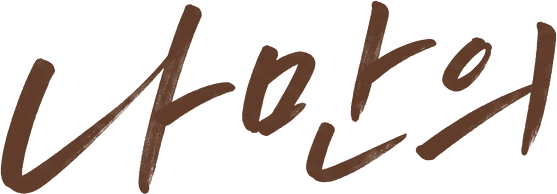
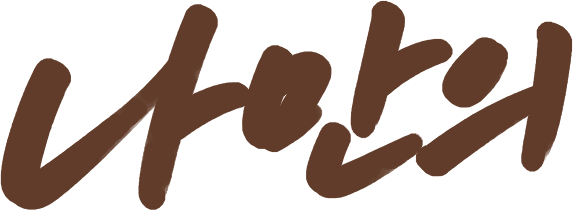
고르기 띠 다듬기: 굵은 손글씨, 스티커를 제목 둘레·찢긴 테두리에 흩어 붙임
- 손글씨 제목 획을 8px 넓혀 굵게 다시 구움
- 스티커 다섯 장을 줄 세우지 않고 제목 둘레 세 장, 띠 위·아래 찢긴 테두리 두 장으로 배치
- 스티커 크기를 줄이고 색을 원색과 바랜 톤 사이로 조정
- CLAUDE.md 스티커 규칙 갱신

Changed region(s): [[0.0, 0.0, 1.0, 1.0], [0.5494, 0.8969, 0.6104, 0.9588], [0.0, 0.8969, 0.0305, 0.9897]]

diff --git a/app/page.tsx b/app/page.tsx
@@ -126,19 +126,24 @@ const OCCASION_PLACEMENT = [
 ];
 
 /*
-  '나만의 캔들 고르기' 제목 아래 풀로 붙인 종이 스티커 줄(동그라미·둘레 글씨 동그라미·둥근 네모·가로 네모).
-  문구는 사이트 다른 곳에 이미 적힌 사실만 영문으로 옮겨 씁니다
-  (손으로 빚은 캔들, 소이 왁스, 안전기준확인 마크, 카카오 상담의 선물 포장 안내, 저녁 7시).
-  입장권은 뺐지만 '7 PM'은 브랜드가 정한 "저녁 7시 불 켜는 시간"이라 스티커로 남겨 둡니다.
-  색은 오래된 인쇄물처럼 채도를 살짝 눌렀고, 기울기·높이·크기·구김(crease)은 하나씩 따로 줘
-  같은 틀로 찍은 듯 보이지 않게 합니다.
+  '나만의 캔들 고르기' 띠에 풀로 붙인 종이 스티커 다섯 장.
+  한 줄로 늘어놓으면 견본표처럼 보여서, 세 장(spot: "title")은 손글씨 둘레의 빈자리(왼쪽 위, '나만의' 오른쪽,
+  '고르기' 꼬리 아래)에, 두 장은 크라프트지의 찢긴 위·아래 테두리(spot: "top" | "bottom")에 반쯤 걸쳐 붙입니다.
+  크기·각도·높이를 다 다르게 줘 줄로 읽히지 않게 합니다.
+  - 제목 둘레: 자리·크기가 제목 상자 기준 %·cqi라 모바일에서도 같은 자리에 붙고, 손글씨 획은 가리지 않습니다.
+  - 테두리: 띠는 찢긴 모양 마스크로 잘려 있어 안에 두면 스티커도 잘리므로, 띠 바깥 겹층에 붙이고 크기는 px로 둡니다.
+  색은 원색이 앨범 위에서 혼자 튀고 많이 누르면 흐려 보여서, 같은 색 계열에서 채도를 조금만 눌러 둡니다.
+  문구는 사이트에 이미 적힌 사실만 영문으로 씁니다
+  (손으로 빚은 캔들, 소이 왁스, 안전기준확인 마크, 카카오 상담의 선물 포장 안내, 저녁 7시 불 켜는 시간).
 */
 const STICKERS = [
-  { shape: "circle", color: "#f7b51e", crease: 0, text: "Handmade", motion: "lift", place: "-rotate-[6deg] w-[104px] md:w-[148px]" },
-  { shape: "square", color: "#7ea8ec", crease: 2, text: "Soy\nWax", motion: "peel", place: "rotate-[3deg] w-[84px] md:w-[116px] md:translate-y-3" },
-  { shape: "ring", color: "#f26b2a", crease: 4, text: "Safety\nChecked", motion: "spin", place: "-rotate-[2deg] w-[100px] md:w-[136px] -translate-y-1" },
-  { shape: "wide", color: "#f68ea0", crease: 1, text: "Gift Wrap on Request", motion: "press", place: "rotate-[4deg] md:translate-y-2" },
-  { shape: "circle", color: "#9fd06a", crease: 3, text: "7 PM", motion: "swing", place: "-rotate-[4deg] w-[86px] md:w-[112px]" },
+  { spot: "title", shape: "circle", color: "#e8b44a", crease: 0, text: "Handmade", motion: "lift", place: "-left-[2%] md:-left-[8%] -top-[4%] md:-top-[12%] w-[21%] md:w-[18%] -rotate-[9deg]", size: "text-[3.3cqi] md:text-[2.8cqi]" },
+  { spot: "title", shape: "circle", color: "#a4c87b", crease: 3, text: "7 PM", motion: "swing", place: "right-[2%] md:right-[5%] -top-[1%] md:-top-[4%] w-[15%] md:w-[13%] rotate-[7deg]", size: "text-[3.2cqi] md:text-[2.7cqi]" },
+  { spot: "title", shape: "ring", color: "#e07240", crease: 4, text: "Safety\nChecked", motion: "spin", place: "left-[62%] md:left-[60%] top-[92%] md:top-[90%] w-[22%] md:w-[19%] -rotate-[3deg]", size: "text-[2.9cqi] md:text-[2.6cqi]" },
+  // 위 테두리 오른편: 앨범 종이와 크라프트지 사이에 반쯤 걸쳐 붙입니다.
+  { spot: "top", shape: "square", color: "#88a8da", crease: 2, text: "Soy\nWax", motion: "peel", place: "right-[34%] md:right-[17%] -top-[22px] md:-top-[26px] w-[54px] md:w-[68px] rotate-[8deg]", size: "text-[12px] md:text-[15px]" },
+  // 아래 테두리 왼편: 찢긴 아래 가장자리에 걸쳐 다음 구간 쪽으로 반쯤 내려옵니다.
+  { spot: "bottom", shape: "wide", color: "#e696a3", crease: 1, text: "Gift Wrap on Request", motion: "press", place: "left-[5%] md:left-[13%] -bottom-[18px] md:-bottom-[20px] -rotate-[5deg]", size: "text-[12px] md:text-[15px]" },
 ] as const;
 
 function Arrow() {
@@ -154,6 +159,8 @@ export default function Home() {
 
         {/* ── 고르는 방법 세 가지 ─────────────────────────────────── */}
         <section>
+          {/* 띠와 테두리 스티커를 한 상자에 묶어, 스티커 자리를 띠의 위·아래 끝 기준으로 잡습니다. */}
+          <div className="relative">
           {/* 크라프트지 띠를 위아래로 찢어 앨범에 붙인 것처럼 보이게 합니다. */}
           <div className="torn-band" style={{ backgroundColor: "var(--color-beige)" }}>
             <div className="max-w-6xl mx-auto px-5 pt-16 pb-14 md:pt-24 md:pb-24 text-center">
@@ -168,41 +175,55 @@ export default function Home() {
                 직접 쓴 캘리그래피라 폰트 대신 이미지로 넣습니다(배경은 투명).
                 한 장으로 쓰면 짧은 첫 줄 '나만의'가 왼쪽에 붙어 오른쪽이 비어 보여서, 줄마다 잘라 둔 그림을
                 각각 가운데에 맞춰 쌓습니다. 폭(%)은 원본(1096px)에서 각 줄이 차지하던 너비라 두 줄 글씨 크기가 같게 유지됩니다.
+                붓 획이 가늘어 띠 위에서 약해 보여서, 두 그림 모두 획을 바깥으로 8px씩 넓혀 굵게 구웠습니다(그만큼 그림도 16px씩 커짐).
                 h2의 이름은 aria-label로 한 번에 읽히게 하고, 그림 두 장은 장식으로 숨깁니다.
               */}
-              <h2 aria-label="나만의 캔들 고르기" className="w-full max-w-[540px] mx-auto flex flex-col items-center">
+              {/* 제목과 스티커를 한 상자에 묶어 스티커 자리를 제목 기준으로 잡습니다(@container: 스티커 글씨도 이 폭을 따라 커짐). */}
+              <div className="@container relative w-full max-w-[540px] mx-auto mt-6 md:mt-10 mb-16 md:mb-20">
+              <h2 aria-label="나만의 캔들 고르기" className="w-full flex flex-col items-center">
                 <Image
                   src="/brand/choose-headline-1.png"
                   alt=""
-                  width={557}
-                  height={194}
-                  className="ink-art w-[50.8%] h-auto"
+                  width={573}
+                  height={210}
+                  className="ink-art w-[52.3%] h-auto"
                   sizes="(max-width: 767px) 46vw, 275px"
                 />
                 <Image
                   src="/brand/choose-headline-2.png"
                   alt=""
-                  width={960}
-                  height={273}
-                  className="ink-art w-[87.6%] h-auto mt-[1.5%]"
+                  width={976}
+                  height={289}
+                  className="ink-art w-[89%] h-auto"
                   sizes="(max-width: 767px) 79vw, 473px"
                 />
               </h2>
-              {/* 제목 아래 크라프트지 띠 위에 붙인 종이 스티커 줄 */}
-              <ul
-                aria-label="이브닝 캔들의 약속"
-                className="mt-10 md:mt-14 flex flex-wrap items-center justify-center gap-x-3 gap-y-4 md:gap-x-8"
-              >
-                {STICKERS.map(({ shape, color, crease, motion, text, place }) => (
-                  <li key={text}>
-                    {/* 참고한 붙임 스티커처럼 글자를 크고 굵게(소품 글씨라 다섯 단계 글자 크기의 예외). */}
-                    <Sticker shape={shape} color={color} crease={crease} motion={motion} className={`${place} text-[16px] md:text-[21px] whitespace-pre-line`}>
+              <ul aria-label="이브닝 캔들의 약속">
+                {STICKERS.filter((sticker) => sticker.spot === "title").map(({ shape, color, crease, motion, text, place, size }) => (
+                  <li key={text} className={`absolute ${place}`}>
+                    {/* 붙임 스티커처럼 글자를 크고 굵게(소품 글씨라 다섯 단계 글자 크기의 예외). */}
+                    <Sticker shape={shape} color={color} crease={crease} motion={motion} className={`w-full ${size} whitespace-pre-line`}>
                       {text}
                     </Sticker>
                   </li>
                 ))}
               </ul>
+              </div>
             </div>
+          </div>
+          {/*
+            찢긴 테두리에 걸친 스티커. 띠 마스크 밖이라 잘리지 않고, 가운데 폭(max-w-6xl) 안에서 자리를 잡습니다.
+            바로 아래 구간 글자보다 위에 보이도록 z-10만 줍니다(아래 구간 제목과는 겹치지 않는 높이).
+          */}
+          <ul aria-label="이브닝 캔들의 약속(테두리)" className="absolute inset-0 max-w-6xl mx-auto z-10 pointer-events-none">
+            {STICKERS.filter((sticker) => sticker.spot !== "title").map(({ shape, color, crease, motion, text, place, size }) => (
+              <li key={text} className={`absolute pointer-events-auto ${place}`}>
+                <Sticker shape={shape} color={color} crease={crease} motion={motion} className={`w-full ${size} whitespace-pre-line`}>
+                  {text}
+                </Sticker>
+              </li>
+            ))}
+          </ul>
           </div>
 
           {/*

diff --git a/CLAUDE.md b/CLAUDE.md
@@ -43,7 +43,7 @@
 | 분위기 사진 | 오래 들고 다닌 인화 사진: 그을린 테두리, 떨어져 나간 모서리, 닳은 자국 | `.worn-print` + `.worn-print-photo` (그림자는 부모에 `drop-shadow`) |
 | 메모 | 줄 노트, 클립 | `.ruled-paper`, `PaperClip` |
 | 약속·특징 | 풀로 붙인 종이 스티커(동그라미·둘레 글씨 동그라미·둥근 네모·가로 네모): 칼선 여백 없이 색 종이 + 그라데이션 구김 + 가는 선·둘레 글씨 장식 | `Sticker` 컴포넌트(`crease` 번호로 구김을 스티커마다 다르게) |
-| 기타(히어로·제목 전용) | 입장권, 레코드, 타원 액자 | `TicketStub`, `RecordAlbum`, `OvalPhoto` |
+| 기타(히어로 전용) | 레코드, 타원 액자 | `RecordAlbum`, `OvalPhoto` |
 | 푸터 | 위쪽을 찢은 앨범 뒷표지 | `.torn-top` |
 
 ### 지금 섹션별 주인공
@@ -51,7 +51,7 @@
 | 섹션 | 주인공 소품 |
 |---|---|
 | 히어로 | 콜라주 (예외: 여러 소품을 모으는 자리) |
-| 나만의 캔들 고르기 제목 | 입장권 + 바로 아래 붙임 스티커 줄 (스티커는 이 자리에만 씁니다) |
+| 나만의 캔들 고르기 제목 | 손글씨 제목(획을 넓혀 굵게 구운 두 줄 그림) 둘레에 흩어 붙인 스티커 다섯 장 (스티커는 이 자리에만, 줄 세우지 않고 크기·각도·높이를 다르게, 손글씨 획은 가리지 않게) |
 | 나만의 캔들 고르기 목록 | 즉석 사진. 제목 띠 바로 아래에 색을 골라 보는 `ColorTryOn`(사이트에서 방문자가 직접 해 보는 단 하나, 찢은 흰 종이 무대 위 three.js 3D 유리컵 캔들 `CandleJar3D`, 화면에 다가올 때만 불러옴)을 먼저 둡니다 |
 | 이런 날에 | 즉석 사진 묶음 |
 | 브랜드 이야기 | 낡은 인화 사진(`.worn-print`) |
@@ -59,7 +59,7 @@
 
 - 스티커 문구는 사이트에 이미 적힌 사실만 영문으로 씁니다(Handmade, Soy Wax, Safety Checked, Gift Wrap on Request, 7 PM). 없는 혜택·수치를 지어내지 않습니다
 - 스티커 글씨는 Playfair Display 900, 검정(`#000`). 둘레 글씨만 타자기체
-- 스티커 색은 또렷한 원색에 가까운 분홍 `#f68ea0`·주황 `#f26b2a`·노랑 `#f7b51e`·연두 `#9fd06a`·파랑 `#7ea8ec`(앨범 위에서 눈에 띄는 포인트)
+- 스티커 색은 원색에서 채도를 조금만 누른 톤: 분홍 `#e696a3`·주황 `#e07240`·노랑 `#e8b44a`·연두 `#a4c87b`·파랑 `#88a8da` (원색은 앨범 위에서 혼자 튀고, 많이 누르면 흐려 보여서 그 중간)
 - 말머리는 소품 없이 보조 글씨(16px, medium, `--color-muted`)로 씁니다
 - 순서에 의미가 없는 번호(No. 01 같은 도장·캡션 번호)는 붙이지 않습니다
 
@@ -110,10 +110,9 @@
 | 한글 전체 | Pretendard (jsDelivr CDN) | 기본 글꼴 |
 | 로고·라틴 숫자 | Playfair Display (`.font-display`) | `next/font`로 셀프 호스팅, 한글은 Pretendard로 떨어짐. 히어로 로고는 600, 자간 -0.015em, 글자마다 쪼갠 상자에 커닝값(`KERNING`)을 직접 넣음. 불꽃 뒤 빛 위치(2.19em)는 이 설정 기준 |
 | 영문 말머리 | Special Elite 타자기체 (`.eyebrow`) | 400 하나뿐, 한글 없음 — 영문 라벨에만 |
-| 입장권 | Mona12 픽셀 글꼴 (`.font-pixel`) | 쓰는 글자만 잘라 둔 서브셋. 문구를 바꾸면 다시 잘라야 함 |
 | 큰 제목 | 캘리그래피 PNG (`/public/brand/*`) | `alt`에 문구 그대로, 다크모드는 `.ink-art`로 반전 |
 
-- 글자 크기는 다섯 단계만 씁니다(`globals.css`의 `--text-*`): 작게 13px · 본문 16px · 강조 18px · 제목 `--text-heading`(clamp 32~52px) · 로고. 13px보다 작은 글씨는 쓰지 않습니다(입장권·스티커 같은 소품 글씨는 예외)
+- 글자 크기는 다섯 단계만 씁니다(`globals.css`의 `--text-*`): 작게 13px · 본문 16px · 강조 18px · 제목 `--text-heading`(clamp 32~52px) · 로고. 13px보다 작은 글씨는 쓰지 않습니다(스티커 같은 소품 글씨는 예외)
 - 한글 대제목은 `.headline` (600, 자간 -0.035em, `text-wrap: balance`), 크기는 `var(--text-heading)`
 - 본문은 16px, 행간 1.8, `max-w-md`
 - 섹션 말머리는 보조 글씨(16px, medium, muted). `.eyebrow`(넓은 자간 대문자)는 히어로 영문 부제에만 씁니다
@@ -147,7 +146,7 @@
 
 | 경로 | 내용 |
 |---|---|
-| `/` | 히어로 콜라주 → 나만의 캔들 고르기(찢은 크라프트지 띠 + 제목 아래 스티커 줄 + 색 골라 보기 + 테이프 붙인 즉석 사진) → 이런 날에(즉석 사진 묶음) → 브랜드 이야기(크라프트지 띠 + 낡은 인화 사진) → 찢은 푸터 |
+| `/` | 히어로 콜라주 → 나만의 캔들 고르기(찢은 크라프트지 띠 + 제목 둘레 스티커 + 색 골라 보기 + 테이프 붙인 즉석 사진) → 이런 날에(즉석 사진 묶음) → 브랜드 이야기(크라프트지 띠 + 낡은 인화 사진) → 찢은 푸터 |
 | `/cart`, `/checkout`, `/orders/[orderId]` | 구매 흐름 |
 
 이미지는 `/public/home`(메인 사진, webp), `/public/brand`(캘리그래피), 상품 원본은 `product-photos-original/`.
